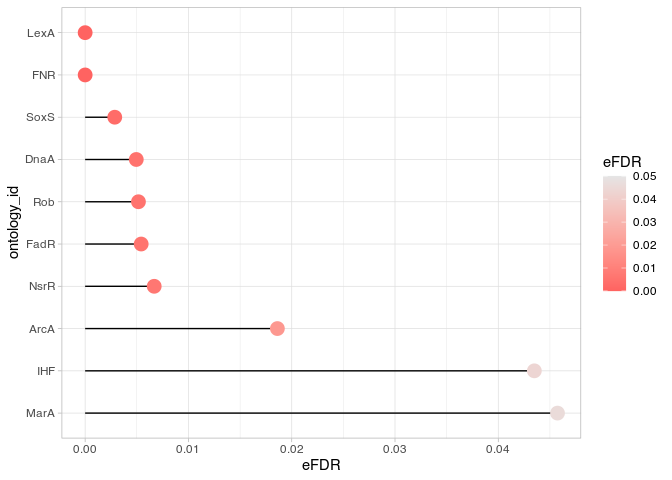
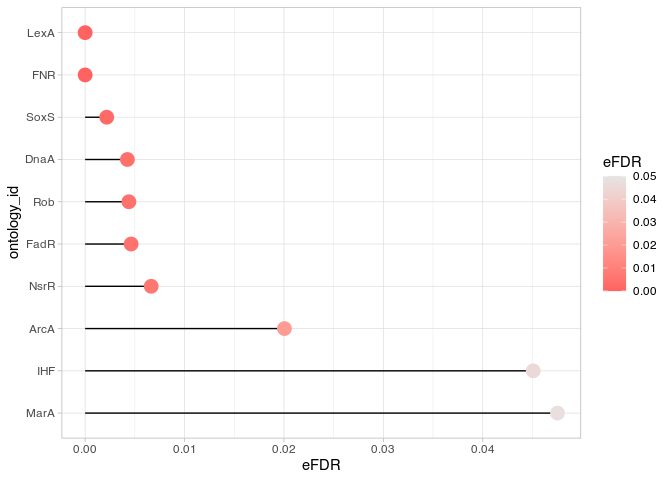
change the location of the README input file to inst/extdata,  and the README figures to man/figures

diff --git a/README.md b/README.md
@@ -1,7 +1,7 @@
 
 <!-- README.md is generated from README.Rmd. Please edit that file -->
 
-# <img src="readme/images/MulEA_logo.png" width="59" /> `mulea` - an R Package for Enrichment Analysis Using Multiple Ontologies and Empirical FDR Correction
+# <img src="man/figures/MulEA_logo.png" width="59" /> `mulea` - an R Package for Enrichment Analysis Using Multiple Ontologies and Empirical FDR Correction
 
 <!-- badges: start -->
 
@@ -61,7 +61,7 @@ Analysis (GSEA)](#gene-set-enrichment-analysis-gsea) sections.
 
 This example analyzes a differential expression (DE) dataset from a
 microarray experiment deposited in the NCBI Gene Expression Omnibus
-<img src="readme/images/geo_main.gif" alt="GEO" width="87" /> under
+<img src="man/figures/geo_main.gif" alt="GEO" width="87" /> under
 accession number
 [GSE55662](https://www.ncbi.nlm.nih.gov/geo/query/acc.cgi?acc=GSE55662).
 The original study by [Méhi *et al.*
@@ -142,7 +142,7 @@ further analysis.
 This section explores the transcription factors influencing the
 significantly overexpressed genes. We employed the `mulea` package to
 conduct multiple enrichment analyses using the
-<img src="readme/images/Regulon.png" alt="Regulon" width="114"
+<img src="man/figures/Regulon.png" alt="Regulon" width="114"
 height="25" /> [database](https://regulondb.ccg.unam.mx/).
 
 The analysis utilized a GMT file downloaded from the dedicated
@@ -422,14 +422,14 @@ ora_results %>%
 |:------------|:--------------|-------------------------------:|----------------------------------:|----------:|----------:|
 | FNR         | “FNR”         |                             26 |                               259 | 0.0000003 | 0.0000000 |
 | LexA        | “LexA”        |                             14 |                                53 | 0.0000000 | 0.0000000 |
-| SoxS        | “SoxS”        |                              7 |                                37 | 0.0001615 | 0.0028667 |
-| DnaA        | “DnaA”        |                              4 |                                13 | 0.0006281 | 0.0049500 |
-| Rob         | “Rob”         |                              5 |                                21 | 0.0004717 | 0.0051600 |
-| FadR        | “FadR”        |                              5 |                                20 | 0.0003692 | 0.0054250 |
-| NsrR        | “NsrR”        |                              8 |                                64 | 0.0010478 | 0.0066857 |
-| ArcA        | “ArcA”        |                             12 |                               148 | 0.0032001 | 0.0186125 |
-| IHF         | “IHF”         |                             14 |                               205 | 0.0070758 | 0.0434900 |
-| MarA        | “MarA”        |                              5 |                                37 | 0.0066068 | 0.0457333 |
+| SoxS        | “SoxS”        |                              7 |                                37 | 0.0001615 | 0.0021667 |
+| DnaA        | “DnaA”        |                              4 |                                13 | 0.0006281 | 0.0042500 |
+| Rob         | “Rob”         |                              5 |                                21 | 0.0004717 | 0.0044000 |
+| FadR        | “FadR”        |                              5 |                                20 | 0.0003692 | 0.0046250 |
+| NsrR        | “NsrR”        |                              8 |                                64 | 0.0010478 | 0.0066429 |
+| ArcA        | “ArcA”        |                             12 |                               148 | 0.0032001 | 0.0200500 |
+| IHF         | “IHF”         |                             14 |                               205 | 0.0070758 | 0.0450800 |
+| MarA        | “MarA”        |                              5 |                                37 | 0.0066068 | 0.0475222 |
 
 #### Visualizing the ORA Result
 
@@ -604,7 +604,7 @@ gsea_results %>%
   filter(adjustedPValue < 0.05) %>% 
   # the number of such rows
   nrow()
-#> [1] 11
+#> [1] 8
 ```
 
 And inspect the significant results:
@@ -619,17 +619,14 @@ gsea_results %>%
 
 | ontology_id | ontology_name | nrCommonGenesOntologySet | nrCommonGenesOntologyBackground |    pValue | adjustedPValue |
 |:------------|:--------------|-------------------------:|--------------------------------:|----------:|---------------:|
-| LexA        | “LexA”        |                       53 |                              61 | 0.0000000 |      0.0000030 |
-| FNR         | “FNR”         |                      259 |                             302 | 0.0000474 |      0.0036281 |
-| GlaR        | “GlaR”        |                        3 |                               5 | 0.0001893 |      0.0072414 |
-| ModE        | “ModE”        |                       45 |                              46 | 0.0001870 |      0.0072414 |
-| ArcA        | “ArcA”        |                      148 |                             180 | 0.0004900 |      0.0124951 |
-| SoxS        | “SoxS”        |                       37 |                              44 | 0.0004352 |      0.0124951 |
-| DnaA        | “DnaA”        |                       13 |                              14 | 0.0006274 |      0.0137128 |
-| PspF        | “PspF”        |                        7 |                               7 | 0.0015555 |      0.0297488 |
-| PaaX        | “PaaX”        |                       14 |                              14 | 0.0020904 |      0.0355370 |
-| FadR        | “FadR”        |                       20 |                              23 | 0.0033113 |      0.0460576 |
-| Rob         | “Rob”         |                       21 |                              26 | 0.0031263 |      0.0460576 |
+| LexA        | “LexA”        |                       53 |                              61 | 0.0000001 |      0.0000089 |
+| FNR         | “FNR”         |                      259 |                             302 | 0.0000570 |      0.0043580 |
+| GlaR        | “GlaR”        |                        3 |                               5 | 0.0003486 |      0.0157744 |
+| ModE        | “ModE”        |                       45 |                              46 | 0.0004124 |      0.0157744 |
+| ArcA        | “ArcA”        |                      148 |                             180 | 0.0005358 |      0.0163954 |
+| DnaA        | “DnaA”        |                       13 |                              14 | 0.0007007 |      0.0171159 |
+| SoxS        | “SoxS”        |                       37 |                              44 | 0.0007831 |      0.0171159 |
+| PspF        | “PspF”        |                        7 |                               7 | 0.0023124 |      0.0442246 |
 
 #### Visualizing the GSEA Results
 
